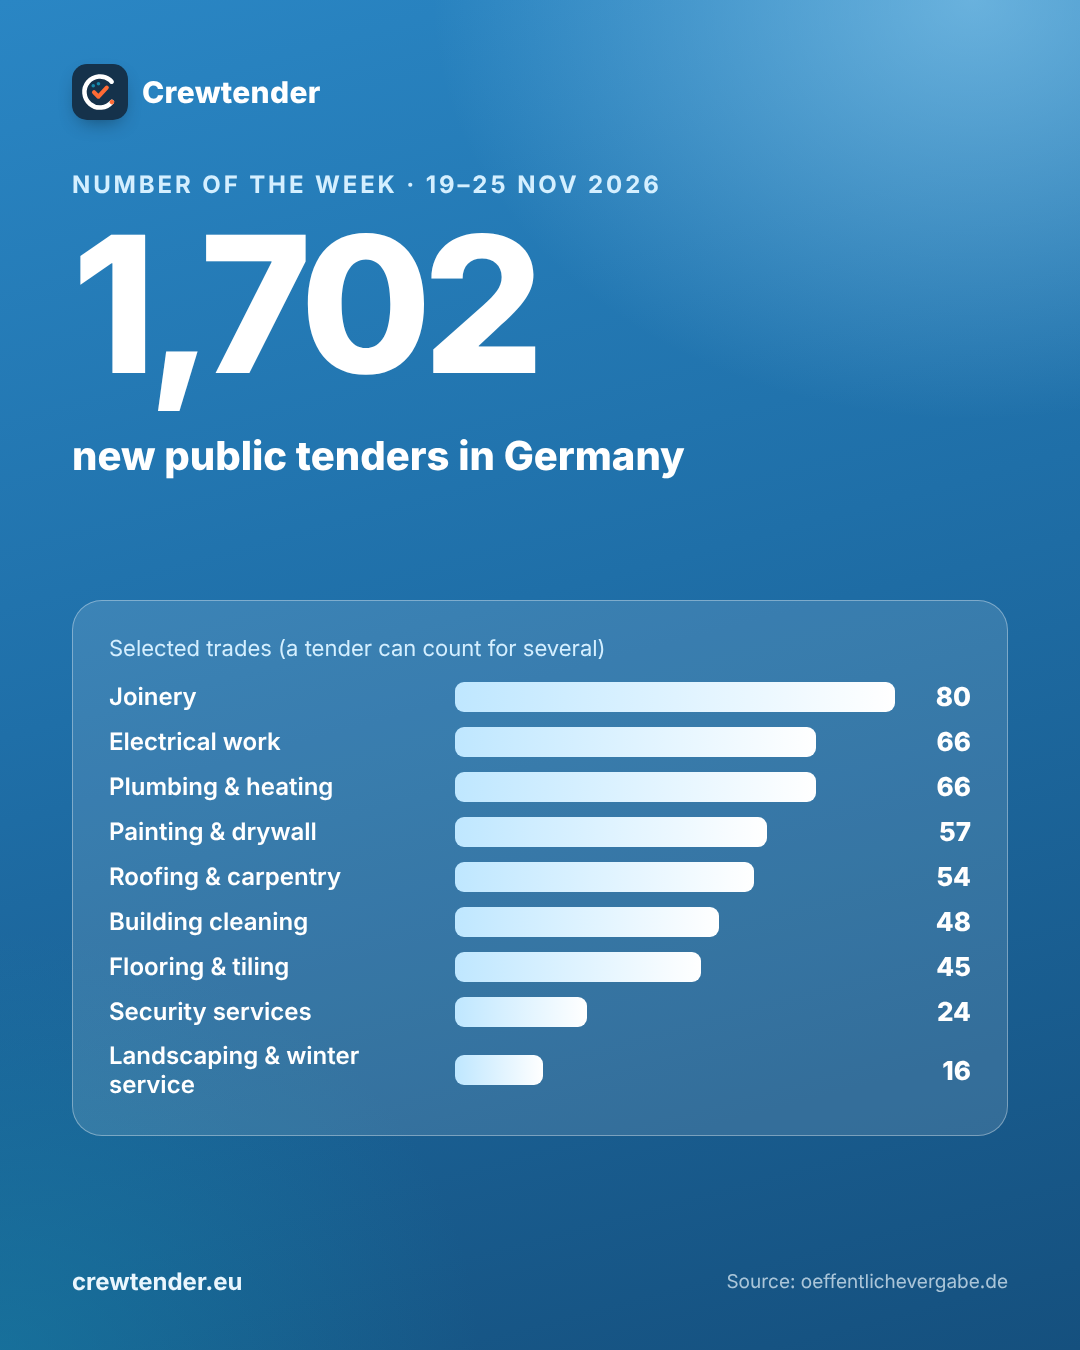
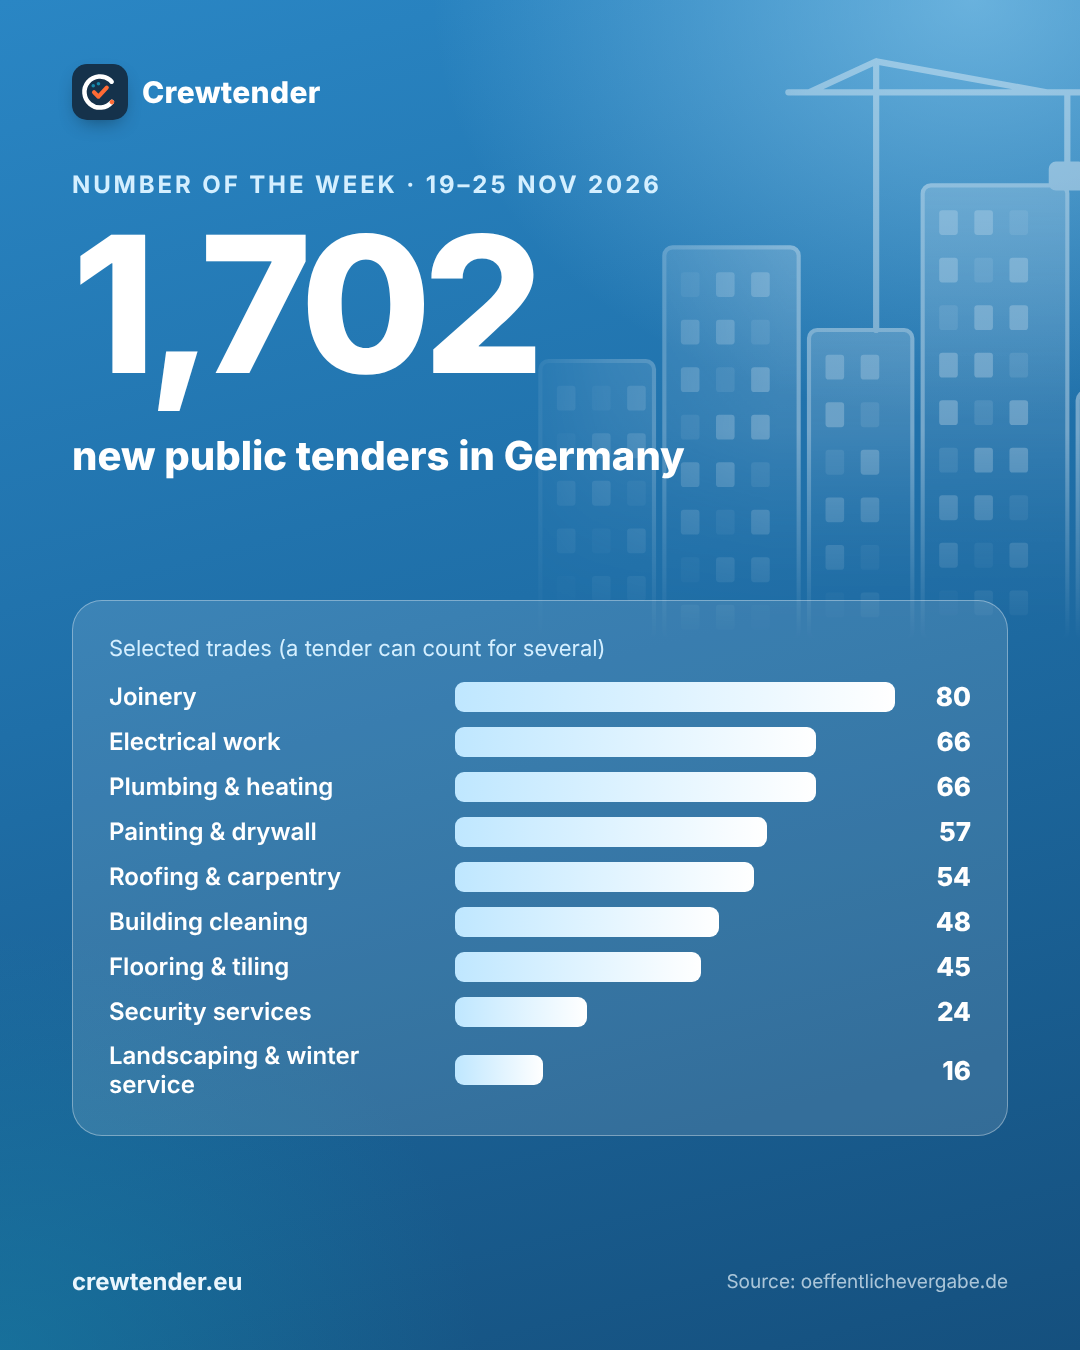
Facebook/Instagram: Bilder mit passendem Motiv im Hintergrund
Fensterscheiben mit Abzieher für Reinigung, Häuser, Zielscheibe, Unterlagen, Team,
Lupe und Kalender; eigene Zeichnungen (docs/design/crewtender/posts/motive.py).

Claude-Session: https://claude.ai/code/session_01WxgUrjbh3nfJmBPDxVDDQY

Changed region(s): [[0.5194, 0.0311, 1.0, 0.4356], [0.9167, 0.4044, 0.9472, 0.4356]]

diff --git a/docs/design/crewtender/posts/woche-2026-48/bauen.py b/docs/design/crewtender/posts/woche-2026-48/bauen.py
@@ -1,8 +1,10 @@
 """Facebook/Instagram package, weeks 48-50/2026 (posts Fri 27.11. to Fri 11.12., three a week). Data from
 `social.py woche` (run 26.11.2026): new public tenders 19-25 Nov 2026 per trade, best current tender. The tips use
 the texts of alarm/social.py (TIPPS) with example data. Writes HTML; render with: node rendern.cjs."""
-import pathlib, re
+import pathlib, re, sys
 hier = pathlib.Path(__file__).parent
+sys.path.insert(0, str(hier.parent))
+from motive import motiv  # noqa: E402
 quelle = (hier.parent / "entwuerfe.py").read_text(encoding="utf-8")
 LOGO = re.search(r"LOGO = '''(.*?)'''", quelle, re.S).group(1)
 BASE = re.search(r"BASE = '''(.*?)'''", quelle, re.S).group(1)
@@ -12,16 +14,16 @@ marke = f'<div class="marke" style="left:72px;top:64px">{LOGO}Crewtender</div>'
 ROT, GELB, BLAU, GRUEN, GRAU = "#c0392b", "#d68910", "#1f6fa8", "#1e8449", "#8a8a84"
 
 
-def tipp(kopf: str, zeile1: str, zeile2: str, text: str, zeilen: list[tuple[str, str, str, str]], fuss: str, dunkel: bool = False) -> str:
+def tipp(kopf: str, zeile1: str, zeile2: str, text: str, zeilen: list[tuple[str, str, str, str]], fuss: str, bild: str, dunkel: bool = False) -> str:
     """Tip layout: headline in two lines, one sentence, four white rows (title, note, label on the right, colour)."""
     akzent, hinweis, satz, rand = ("#d4efff", "#eaf6fd", "#eaf6fd", "#eaf6fd") if dunkel else ("#1f6fa8", "#24506e", "#2a4a63", "#24506e")
     karten = "".join(f'''<div style="display:flex;align-items:center;gap:22px;padding:24px 30px;border-radius:24px;background:#fff;border:1px solid #e3eef6;margin-bottom:16px;box-shadow:0 20px 40px -28px rgba(21,50,75,.5)">
 <span style="flex:0 0 14px;height:64px;border-radius:7px;background:{farbe}"></span><div style="flex:1"><div style="font-size:30px;font-weight:800;color:#14202b">{t}</div><div style="font-size:21px;color:#66665f;margin-top:4px">{n}</div></div>
 <span style="font-size:24px;font-weight:800;color:{farbe};text-align:right;white-space:nowrap">{rechts}</span></div>''' for t, n, rechts, farbe in zeilen)
-    return BASE + f'''<div class="post" style="{DUNKEL if dunkel else HELL}">{marke}
+    return BASE + f'''<div class="post" style="{DUNKEL if dunkel else HELL}">{motiv(bild, dunkel)}{marke}
 <div style="position:absolute;left:72px;right:72px;top:170px"><div style="font-size:24px;font-weight:700;color:{akzent};letter-spacing:.12em;text-transform:uppercase;margin-bottom:18px">{kopf}</div>
 <div style="font-size:74px;font-weight:850;line-height:1.03;letter-spacing:-.025em">{zeile1}<br><span style="color:{akzent}">{zeile2}</span></div>
-<div style="font-size:30px;line-height:1.35;margin-top:26px;color:{satz}">{text}</div></div>
+<div style="font-size:30px;line-height:1.35;margin-top:26px;color:{satz};max-width:610px">{text}</div></div>
 <div style="position:absolute;left:72px;right:72px;top:640px">{karten}</div>
 <div class="fuss" style="color:{rand}"><span style="font-weight:700">crewtender.eu</span><span class="klein">{fuss}</span></div></div></body></html>'''
 
@@ -31,7 +33,7 @@ gewerke = [("Joinery", 80), ("Electrical work", 66), ("Plumbing & heating", 66),
 hoechst = max(n for _, n in gewerke)
 balken = "".join(f'''<div style="display:grid;grid-template-columns:330px 1fr 60px;align-items:center;gap:16px;margin-bottom:14px"><span style="font-size:24px;font-weight:600">{g}</span>
 <span style="height:30px;border-radius:9px;background:linear-gradient(90deg,#bfe7ff,#ffffff);width:{round(100 * n / hoechst)}%"></span><span style="font-size:26px;font-weight:800;text-align:right">{n}</span></div>''' for g, n in gewerke)
-p1 = BASE + f'''<div class="post" style="{DUNKEL}">{marke}
+p1 = BASE + f'''<div class="post" style="{DUNKEL}">{motiv("haeuser", True)}{marke}
 <div style="position:absolute;left:72px;right:72px;top:170px"><div style="font-size:24px;font-weight:700;color:#d4efff;letter-spacing:.12em;text-transform:uppercase;margin-bottom:10px">Number of the week · 19–25 Nov 2026</div>
 <div style="font-size:190px;font-weight:850;letter-spacing:-.045em;line-height:1">1,702</div>
 <div style="font-size:40px;font-weight:800;line-height:1.15;margin-top:34px">new public tenders in Germany</div></div>
@@ -40,7 +42,7 @@ p1 = BASE + f'''<div class="post" style="{DUNKEL}">{marke}
 <div class="fuss" style="color:#eaf6fd"><span style="font-weight:700">crewtender.eu</span><span class="klein">Source: oeffentlichevergabe.de</span></div></div></body></html>'''
 
 # 2 — Mon 30.11.: tender of the week (real notice)
-p2 = BASE + f'''<div class="post" style="{HELL}">{marke}
+p2 = BASE + f'''<div class="post" style="{HELL}">{motiv("fenster")}{marke}
 <div style="position:absolute;left:72px;right:72px;top:170px"><div style="font-size:24px;font-weight:700;color:#1f6fa8;letter-spacing:.12em;text-transform:uppercase;margin-bottom:18px">Tender of the week</div>
 <div style="font-size:66px;font-weight:850;line-height:1.05;letter-spacing:-.02em">Cleaning contract<br><span style="color:#1f6fa8">open for bids.</span></div></div>
 <div style="position:absolute;left:72px;right:72px;top:480px;padding:48px 50px 44px;border-radius:40px;background:rgba(255,255,255,.7);border:1.5px solid rgba(255,255,255,.95);box-shadow:0 50px 90px -40px rgba(21,50,75,.55)">
@@ -56,27 +58,27 @@ p2 = BASE + f'''<div class="post" style="{HELL}">{marke}
 # 3 — Wed 02.12.: rating (example data)
 p3 = tipp("Crewtender tip", "Which tenders", "fit your company?", "Every morning Crewtender rates new tenders for your company, 1–10, with a short reason.", [
     ("Cleaning of 3 schools", "Your trade, your region", "9 / 10", GRUEN), ("Security, town hall", "Fits – night shifts required", "7 / 10", BLAU),
-    ("Winter service, 25 sites", "Far from your sites", "4 / 10", GELB), ("Road construction, lot 2", "Not your trade", "1 / 10", GRAU)], "Example tenders for illustration")
+    ("Winter service, 25 sites", "Far from your sites", "4 / 10", GELB), ("Road construction, lot 2", "Not your trade", "1 / 10", GRAU)], "Example tenders for illustration", "ziel")
 
 # 4 — Fri 04.12.: fact sheet (example data)
 p4 = tipp("Crewtender tip", "Tender documents,", "read in minutes.", "Upload the tender documents and Crewtender writes a fact sheet: lots, quantities, deadlines and required evidence.", [
     ("Lots", "3 lots · bids per lot allowed", "", BLAU), ("Quantities", "12,400 m² floor area · 5 days a week", "", BLAU),
-    ("Deadlines", "Questions until 4 Dec · bid by 15 Dec", "", GELB), ("Required evidence", "Liability insurance · references · tax clearance", "", GRUEN)], "Example fact sheet for illustration", dunkel=True)
+    ("Deadlines", "Questions until 4 Dec · bid by 15 Dec", "", GELB), ("Required evidence", "Liability insurance · references · tax clearance", "", GRUEN)], "Example fact sheet for illustration", "blaetter", dunkel=True)
 
 # 5 — Mon 07.12.: team (example data)
 p5 = tipp("Crewtender tip", "Won the contract?", "Plan your crew.", "Shift plan, timesheets and proof of service in one place – and an app for your crew in 6 languages.", [
     ("Mon · School cleaning", "06:00–10:00 · 4 staff", "Fully staffed", GRUEN), ("Tue · Town hall security", "18:00–06:00 · 2 staff", "1 shift open", GELB),
-    ("Wed · Trade fair catering", "10:00–20:00 · 8 staff", "Fully staffed", GRUEN), ("Timesheets, November", "Proof of service for the client", "Ready", BLAU)], "Example data for illustration")
+    ("Wed · Trade fair catering", "10:00–20:00 · 8 staff", "Fully staffed", GRUEN), ("Timesheets, November", "Proof of service for the client", "Ready", BLAU)], "Example data for illustration", "team")
 
 # 6 — Wed 09.12.: demo search
 p6 = tipp("Crewtender tip", "Search real tenders.", "No sign-up.", "Try the demo: search real public tenders in Germany by keyword and region.", [
     ("1 · Enter a keyword", "e.g. Reinigung, Sicherheitsdienst, Elektro", "", BLAU), ("2 · Add a place or postal code", "e.g. Aachen or 52", "", BLAU),
-    ("3 · See the open tenders", "With deadline, buyer and link to the official notice", "", GRUEN), ("4 · Like what you see?", "Crewtender can check new tenders for you every morning", "", GRUEN)], "Source of the tenders: oeffentlichevergabe.de", dunkel=True)
+    ("3 · See the open tenders", "With deadline, buyer and link to the official notice", "", GRUEN), ("4 · Like what you see?", "Crewtender can check new tenders for you every morning", "", GRUEN)], "Source of the tenders: oeffentlichevergabe.de", "lupe", dunkel=True)
 
 # 7 — Fri 11.12.: deadlines (example data)
 p7 = tipp("Crewtender tip", "Bid deadlines", "under control.", "Crewtender reminds you 7 and 2 days before each deadline – by e-mail and on your phone.", [
     ("Catering, school canteen", "Reminder sent today", "Bid due in 2 days", ROT), ("Building cleaning, lot 3", "Reminder sent today", "Bid due in 7 days", GELB),
-    ("Security, event hall", "Reminders 7 and 2 days before", "Bid due in 16 days", BLAU), ("Electrical work, sports hall", "Bidder questions deadline", "Questions until 18 Dec", BLAU)], "Example tenders for illustration")
+    ("Security, event hall", "Reminders 7 and 2 days before", "Bid due in 16 days", BLAU), ("Electrical work, sports hall", "Bidder questions deadline", "Questions until 18 Dec", BLAU)], "Example tenders for illustration", "kalender")
 
 for n, h in [("1-fr-zahl-der-woche", p1), ("2-mo-ausschreibung-der-woche", p2), ("3-mi-bewertung", p3), ("4-fr-steckbrief", p4), ("5-mo-team", p5), ("6-mi-suche", p6), ("7-fr-fristen", p7)]:
     (hier / f"{n}.html").write_text(h, encoding="utf-8")

diff --git a/docs/design/crewtender/posts/motive.py b/docs/design/crewtender/posts/motive.py
@@ -1,0 +1,105 @@
+"""Background motifs for the Facebook/Instagram posts (Benjamin, 26.11.2026: the pictures should show what the post is
+about, shimmering through in the background, e.g. window panes for cleaning tenders). Own drawings as inline SVG, no
+stock photos, so there is no licence to clear. motiv(name, dunkel) returns the HTML for one post (1080x1350)."""
+
+
+def _stern(x: float, y: float, r: float) -> str:
+    k = r * .22
+    return f'<path d="M{x},{y - r} L{x + k},{y - k} L{x + r},{y} L{x + k},{y + k} L{x},{y + r} L{x - k},{y + k} L{x - r},{y} L{x - k},{y - k} Z"/>'
+
+
+def _tropfen(x: float, y: float, r: float) -> str:
+    return f'<path d="M{x},{y - 2.1 * r} C{x + .4 * r},{y - 1.2 * r} {x + r},{y - .6 * r} {x + r},{y} A{r},{r} 0 1 1 {x - r},{y} C{x - r},{y - .6 * r} {x - .4 * r},{y - 1.2 * r} {x},{y - 2.1 * r} Z"/>'
+
+
+def _fenster(f: str, glas: str) -> str:
+    """Window front with reflections, a squeegee and its clean stripe."""
+    scheiben, glanz = "", ""
+    for i, x in enumerate((30, 300)):
+        for j, y in enumerate((20, 230, 440)):
+            scheiben += f'<rect x="{x}" y="{y}" width="250" height="190" rx="16" fill="url(#glas)" stroke="{f}" stroke-width="5"/>'
+            glanz += (f'<g clip-path="inset(0)"><svg x="{x}" y="{y}" width="250" height="190" viewBox="0 0 250 190">'
+                      f'<path d="M{40 + 30 * ((i + j) % 2)},190 L{120 + 30 * ((i + j) % 2)},0 h34 l-80,190 Z" fill="{glas}" opacity=".75"/>'
+                      f'<path d="M{150 + 30 * ((i + j) % 2)},190 l80,-190 h14 l-80,190 Z" fill="{glas}" opacity=".55"/></svg></g>')
+    return f'''<defs><linearGradient id="glas" x1="0" y1="0" x2="1" y2="1"><stop offset="0" stop-color="{glas}" stop-opacity=".8"/><stop offset="1" stop-color="{glas}" stop-opacity=".12"/></linearGradient></defs>
+{scheiben}{glanz}
+<g transform="translate(330 395) rotate(-24)"><rect x="-150" y="-330" width="300" height="330" fill="{glas}" opacity=".5"/>
+<rect x="-165" y="-14" width="330" height="28" rx="10" fill="{f}"/><rect x="-150" y="12" width="300" height="12" rx="5" fill="{f}" opacity=".55"/>
+<rect x="-14" y="20" width="28" height="170" rx="13" fill="{f}"/></g>
+<g fill="{glas}">{_stern(120, 95, 46)}{_stern(505, 300, 30)}{_stern(215, 560, 24)}</g>
+<g fill="{f}" opacity=".55">{_tropfen(92, 330, 15)}{_tropfen(520, 520, 12)}{_tropfen(150, 470, 9)}</g>'''
+
+
+def _haeuser(f: str, glas: str) -> str:
+    """Skyline with lit windows and a crane: all trades, construction."""
+    teile = ""
+    for x, y, b in ((10, 330, 110), (130, 220, 130), (270, 300, 100), (380, 160, 140), (530, 360, 70)):
+        teile += f'<rect x="{x}" y="{y}" width="{b}" height="{600 - y}" rx="8" fill="url(#glas)" stroke="{f}" stroke-width="4"/>'
+        for yy in range(y + 24, 580, 46):
+            for xx in range(x + 16, x + b - 24, 34):
+                teile += f'<rect x="{xx}" y="{yy}" width="18" height="24" rx="3" fill="{glas}" opacity="{.8 if (xx + yy) % 3 else .3}"/>'
+    return f'''<defs><linearGradient id="glas" x1="0" y1="0" x2="0" y2="1"><stop offset="0" stop-color="{glas}" stop-opacity=".5"/><stop offset="1" stop-color="{glas}" stop-opacity=".05"/></linearGradient></defs>
+{teile}<g stroke="{f}" stroke-width="6" stroke-linecap="round" fill="none"><path d="M335,300 V40 M250,70 H560 M335,40 L500,70 M335,40 L270,70 M520,70 V140"/><rect x="505" y="140" width="30" height="22" rx="4" fill="{f}"/></g>'''
+
+
+def _ziel(f: str, glas: str) -> str:
+    """Target with a tick: which tenders fit."""
+    return f'''<g fill="none" stroke="{f}"><circle cx="300" cy="300" r="270" stroke-width="5" fill="{glas}" fill-opacity=".28"/><circle cx="300" cy="300" r="195" stroke-width="5" fill="{glas}" fill-opacity=".3"/>
+<circle cx="300" cy="300" r="120" stroke-width="5" fill="{glas}" fill-opacity=".4"/></g><circle cx="300" cy="300" r="52" fill="{f}"/>
+<path d="M272,300 l20,22 l40,-46" fill="none" stroke="{glas}" stroke-width="13" stroke-linecap="round" stroke-linejoin="round"/>
+<g fill="{glas}">{_stern(80, 90, 36)}{_stern(540, 520, 26)}</g>'''
+
+
+def _blaetter(f: str, glas: str) -> str:
+    """Stack of document sheets with marked lines: fact sheet."""
+    def blatt(dx: float, dy: float, w: float, o: float) -> str:
+        zeilen = "".join(f'<rect x="{60 + dx}" y="{150 + dy + 52 * i}" width="{(250, 310, 200, 290, 230, 300, 170)[i]}" height="16" rx="8" fill="{f}" opacity="{.75 if i in (1, 4) else .35}"/>' for i in range(7))
+        return (f'<g transform="rotate({w} 300 300)" opacity="{o}"><rect x="{20 + dx}" y="{30 + dy}" width="400" height="520" rx="22" fill="url(#glas)" stroke="{f}" stroke-width="5"/>'
+                f'<rect x="{60 + dx}" y="{80 + dy}" width="190" height="28" rx="10" fill="{f}"/>{zeilen}</g>')
+    return f'''<defs><linearGradient id="glas" x1="0" y1="0" x2="1" y2="1"><stop offset="0" stop-color="{glas}" stop-opacity=".85"/><stop offset="1" stop-color="{glas}" stop-opacity=".25"/></linearGradient></defs>
+{blatt(150, 10, 9, .6)}{blatt(70, 20, -5, 1)}<g fill="{glas}">{_stern(520, 80, 34)}</g>'''
+
+
+def _team(f: str, glas: str) -> str:
+    """Crew of four, one with a hard hat: staff planning."""
+    def person(x: float, y: float, s: float, helm: bool = False) -> str:
+        h = f'<path d="M{x - 46 * s},{y - 8 * s} a{46 * s},{46 * s} 0 0 1 {92 * s},0 h{14 * s} v{12 * s} h{-120 * s} v{-12 * s} Z" fill="{f}"/>' if helm else ""
+        return (f'<circle cx="{x}" cy="{y}" r="{42 * s}" fill="url(#glas)" stroke="{f}" stroke-width="5"/>{h}'
+                f'<path d="M{x - 90 * s},{y + 210 * s} v{-60 * s} a{90 * s},{90 * s} 0 0 1 {180 * s},0 v{60 * s} Z" fill="url(#glas)" stroke="{f}" stroke-width="5"/>')
+    return f'''<defs><linearGradient id="glas" x1="0" y1="0" x2="0" y2="1"><stop offset="0" stop-color="{glas}" stop-opacity=".85"/><stop offset="1" stop-color="{glas}" stop-opacity=".2"/></linearGradient></defs>
+{person(120, 250, .85)}{person(480, 250, .85)}{person(300, 330, 1.15, True)}<g fill="{glas}">{_stern(300, 120, 30)}</g>'''
+
+
+def _lupe(f: str, glas: str) -> str:
+    """Magnifier over a map with pins: search."""
+    def nadel(x: float, y: float, s: float) -> str:
+        return f'<path d="M{x},{y} c{-34 * s},{-44 * s} {-34 * s},{-84 * s} 0,{-84 * s} c{34 * s},0 {34 * s},{40 * s} 0,{84 * s} Z" fill="{f}"/><circle cx="{x}" cy="{y - 54 * s}" r="{11 * s}" fill="{glas}"/>'
+    return f'''<defs><linearGradient id="glas" x1="0" y1="0" x2="1" y2="1"><stop offset="0" stop-color="{glas}" stop-opacity=".75"/><stop offset="1" stop-color="{glas}" stop-opacity=".2"/></linearGradient></defs>
+<g fill="none" stroke="{f}" stroke-width="4" opacity=".5"><path d="M0,140 C150,90 260,210 420,150 S600,170 600,170 M0,330 C120,300 300,400 600,320 M0,500 C200,450 330,560 600,470 M150,0 C110,200 230,350 170,600 M400,0 C460,220 350,380 430,600"/></g>
+{nadel(110, 250, 1)}{nadel(500, 150, .8)}{nadel(480, 470, .9)}
+<circle cx="270" cy="290" r="165" fill="url(#glas)" stroke="{f}" stroke-width="18"/><path d="M392,412 L520,548" stroke="{f}" stroke-width="40" stroke-linecap="round"/>
+<path d="M180,250 a100,100 0 0 1 80,-70" fill="none" stroke="{glas}" stroke-width="14" stroke-linecap="round" opacity=".9"/>'''
+
+
+def _kalender(f: str, glas: str) -> str:
+    """Calendar sheet with a marked day and a clock: deadlines."""
+    tage = "".join(f'<rect x="{70 + 68 * i}" y="{210 + 68 * j}" width="50" height="50" rx="12" fill="{f if (i, j) == (4, 2) else glas}" opacity="{1 if (i, j) == (4, 2) else .75}"/>' for i in range(6) for j in range(4))
+    return f'''<defs><linearGradient id="glas" x1="0" y1="0" x2="1" y2="1"><stop offset="0" stop-color="{glas}" stop-opacity=".8"/><stop offset="1" stop-color="{glas}" stop-opacity=".2"/></linearGradient></defs>
+<rect x="30" y="70" width="490" height="450" rx="30" fill="url(#glas)" stroke="{f}" stroke-width="5"/><path d="M30,170 H520" stroke="{f}" stroke-width="5"/>
+<g stroke="{f}" stroke-width="16" stroke-linecap="round"><path d="M140,40 V110 M410,40 V110"/></g>{tage}
+<circle cx="400" cy="460" r="110" fill="{glas}" fill-opacity=".85" stroke="{f}" stroke-width="12"/><path d="M400,390 V460 L450,490" fill="none" stroke="{f}" stroke-width="12" stroke-linecap="round" stroke-linejoin="round"/>'''
+
+
+# Motif -> drawing, distance from the right edge, from the top, width. Placed so the solid parts sit right of the text.
+MOTIVE = {"fenster": (_fenster, -120, -110, 600), "haeuser": (_haeuser, -70, 20, 620), "ziel": (_ziel, -120, 60, 600), "blaetter": (_blaetter, -200, 50, 600),
+          "team": (_team, -130, 70, 520), "lupe": (_lupe, -150, 150, 520), "kalender": (_kalender, -110, 60, 600)}
+
+
+def motiv(name: str, dunkel: bool = False) -> str:
+    """The motif as a layer behind the text, top right, fading out towards the text on the left and at the bottom."""
+    zeichnung, rechts, oben, breite = MOTIVE[name]
+    f, glas, deck = ("#ffffff", "#ffffff", .38) if dunkel else ("#1f6fa8", "#ffffff", .55)
+    maske = "linear-gradient(95deg,transparent 0%,rgba(0,0,0,.5) 16%,#000 42%),linear-gradient(180deg,#000 66%,transparent 100%)"
+    return (f'<div style="position:absolute;right:{rechts}px;top:{oben}px;width:{breite}px;height:{breite}px;opacity:{deck};'
+            f'-webkit-mask-image:{maske};-webkit-mask-composite:source-in;mask-image:{maske};mask-composite:intersect">'
+            f'<svg viewBox="0 0 600 600" width="{breite}" height="{breite}" xmlns="http://www.w3.org/2000/svg">{zeichnung(f, glas)}</svg></div>')
